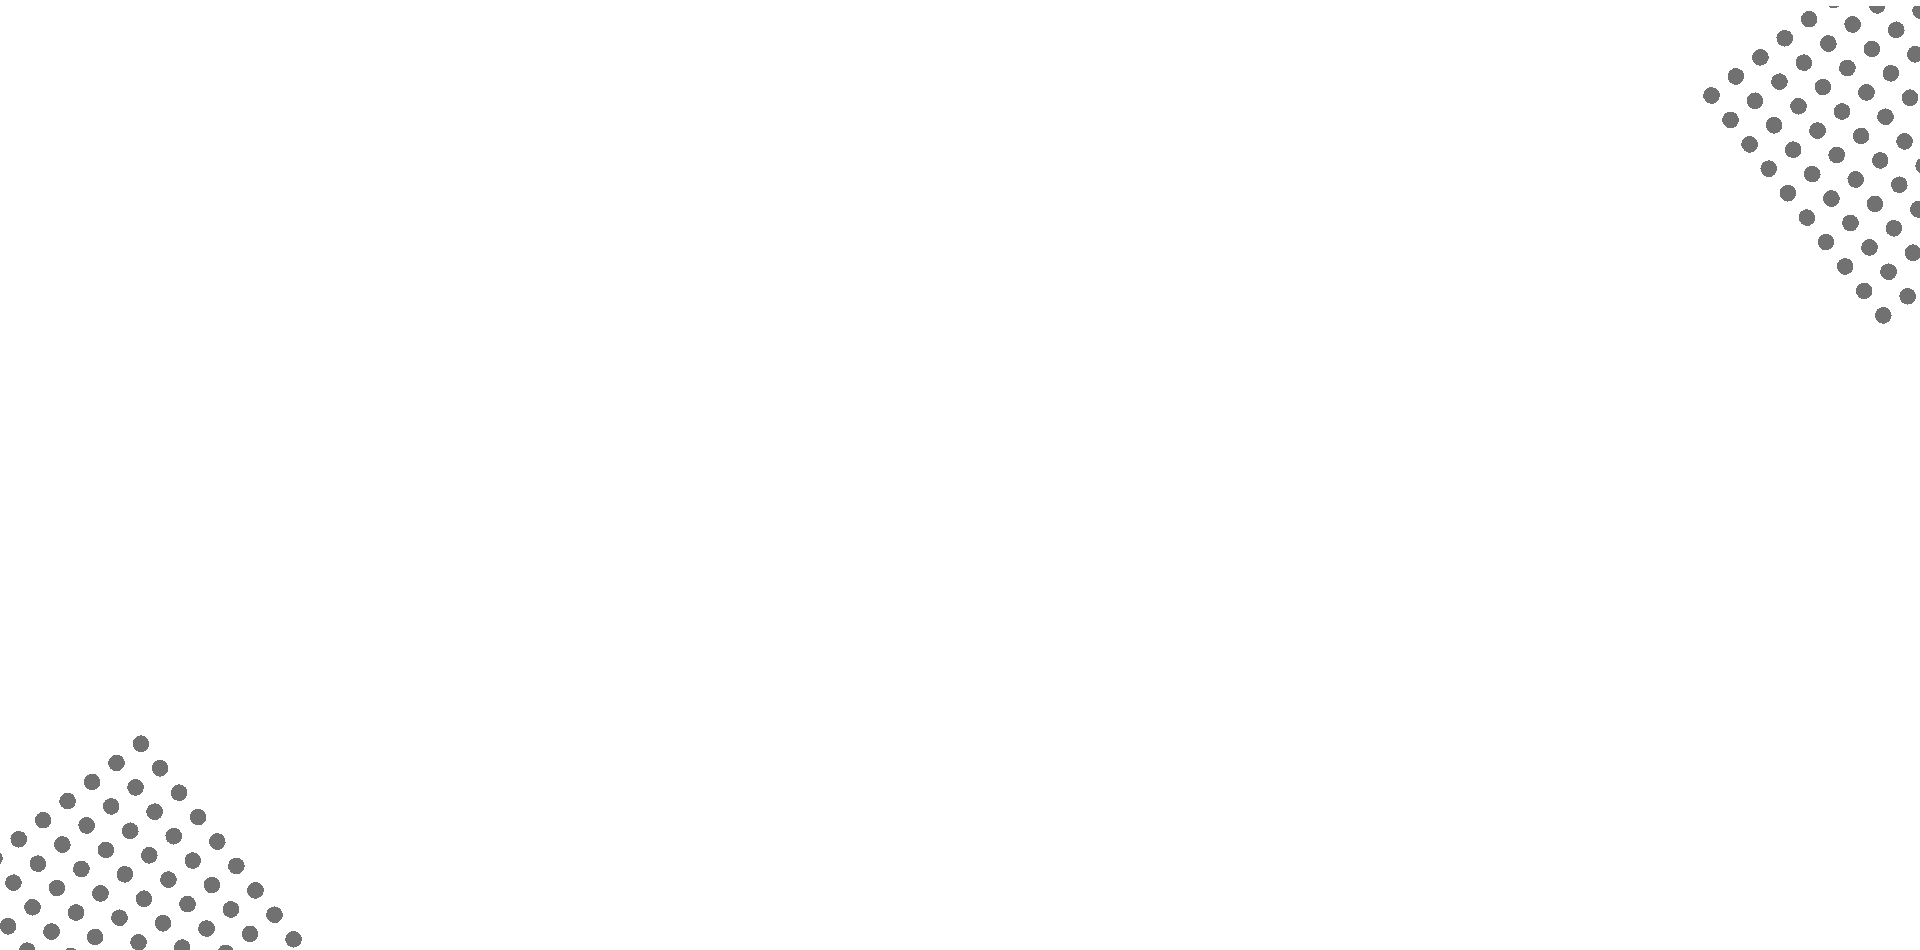
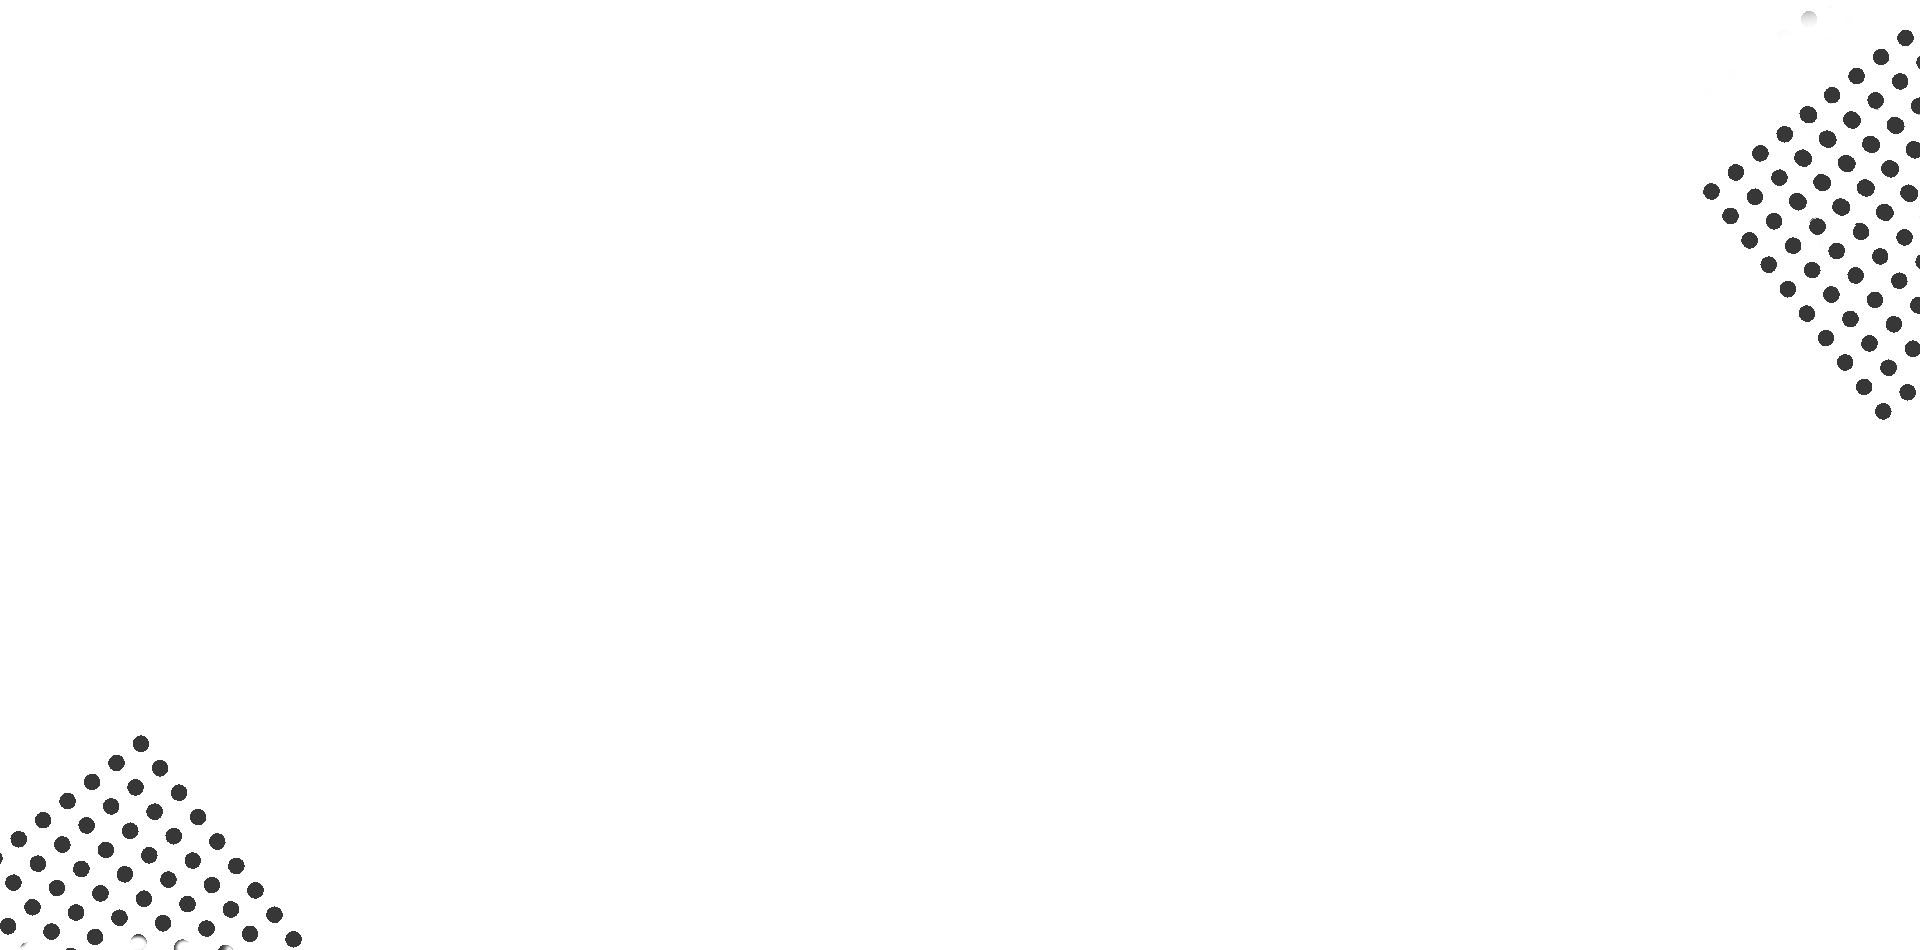
dark mode

Changed region(s): [[0.875, 0.0, 1.0, 0.4579], [0.0, 0.7632, 0.1562, 1.0]]

diff --git a/css/darkStyle.css b/css/darkStyle.css
@@ -1,7 +1,35 @@
-
 body.dark .dark-btn {
-    display: none;
-  }
-  body.dark .light-btn {
-    display: block;
-  }
+  display: none;
+}
+body.dark .light-btn {
+  display: block;
+}
+body.dark {
+  background-color: #303030;
+}
+
+body.dark main > section > article:first-of-type {
+  background-image: url(../image/bg-container-dark.png);
+
+  color: #c7c7c7;
+}
+
+body.dark header > article > div:first-of-type {
+  background-color: #424242;
+  color: #fff;
+}
+body.dark main > section > article:nth-of-type(2) {
+  background: #484848;
+}
+
+body.dark .tml-container::after {
+  border: 4px solid #a390c2;;
+}
+body.dark .nav-tabs .nav-link:after {
+  border-bottom: 3px solid #424242;
+
+}
+
+body.dark header > article > div {
+  box-shadow: 0 0 10px #00000021;
+}

diff --git a/index.html b/index.html
@@ -44,7 +44,7 @@
           <span class="navbar-toggler-icon"></span>
         </button>
         <button  onclick="app.toggleTheme(this)" class="navbar-brand dark-btn " href="#"><img src="image/moon.svg" alt="dark mode"></button>
-        <button onclick="app.toggleTheme(this)" class="light-btn" href="#"><img src="image/sun.svg" alt="light mode"></button>
+        <button onclick="app.toggleTheme(this)" class="navbar-brand light-btn" href="#"><img src="image/sun.svg" alt="light mode"></button>
         
         <div class="collapse navbar-collapse" id="navbarNav">
           <ul class="navbar-nav">

diff --git a/css/style.css b/css/style.css
@@ -143,7 +143,7 @@ main > section > article:first-of-type {
   background-image: url(../image/bg-container.png);
   background-size: cover;
   line-height: 1.9em;
-  padding: 76px 10%;
+  padding: 60px 10%;
   color: #757575;
   text-align: center;
 }
